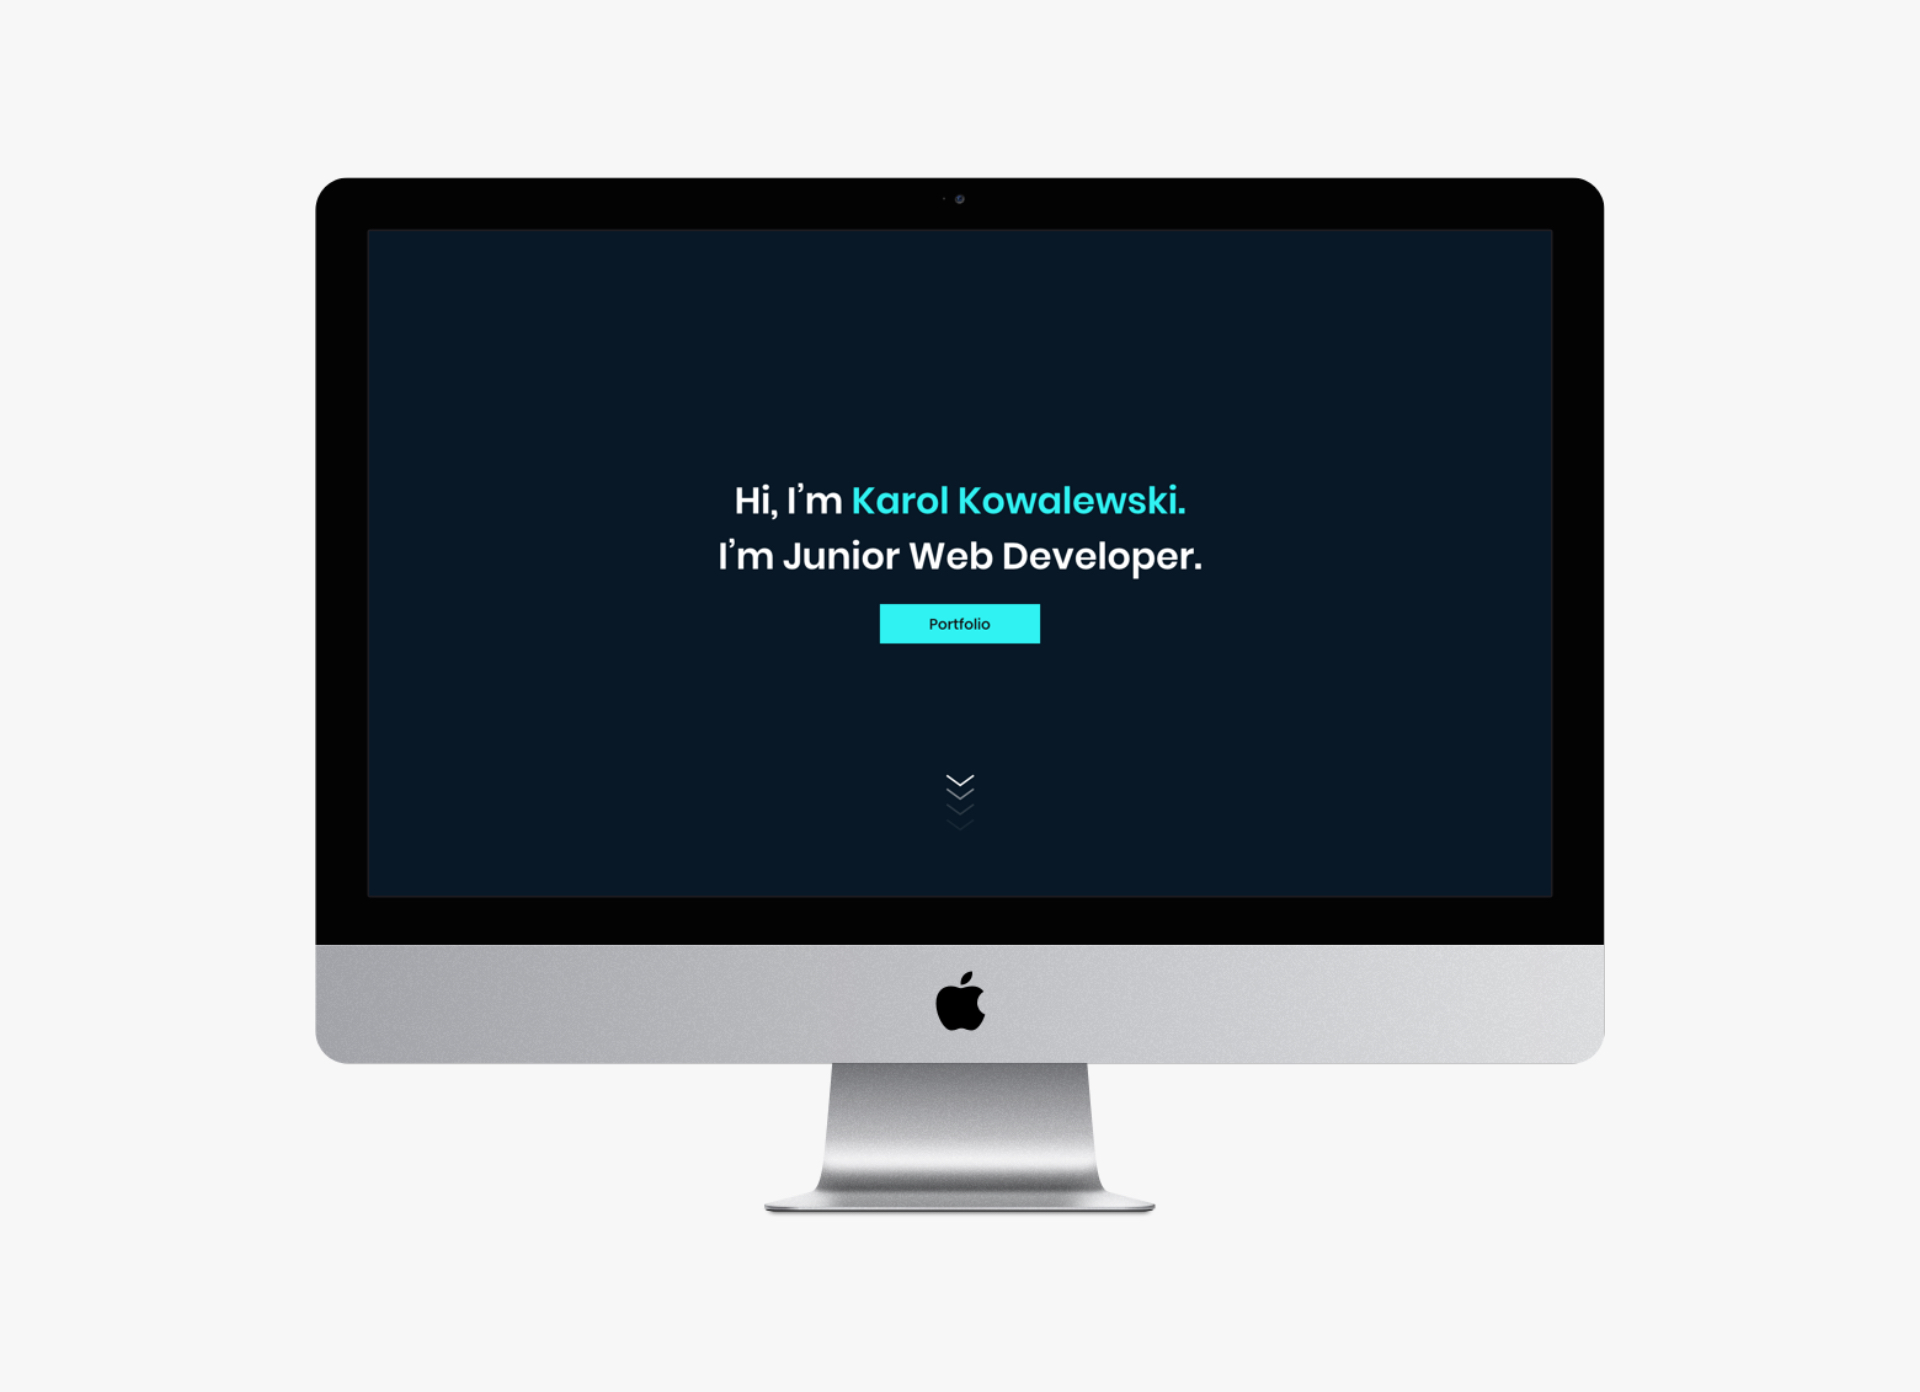
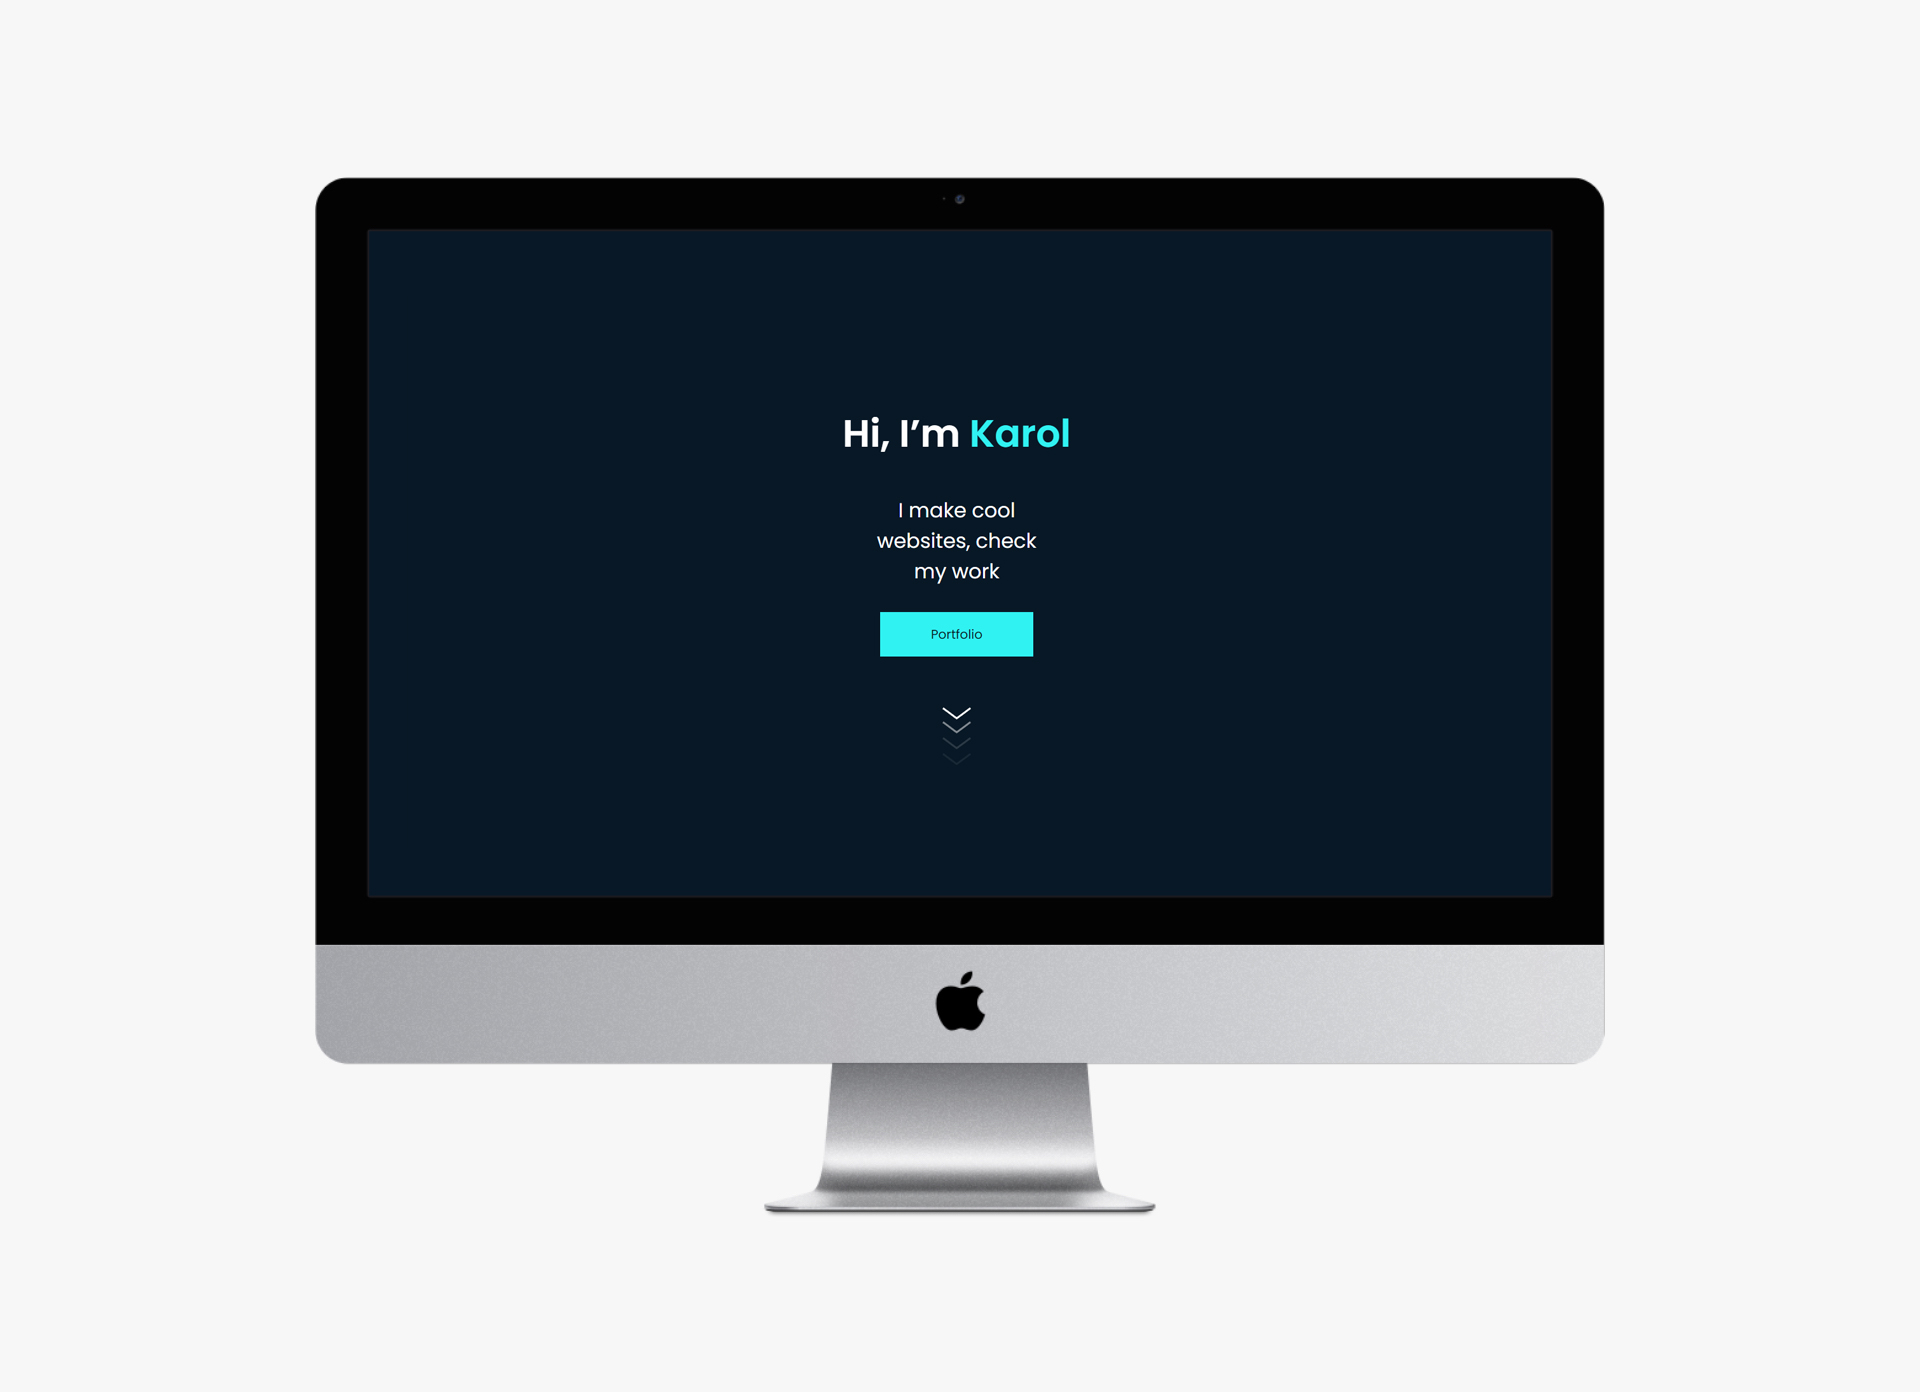
fix copy

Changed region(s): [[0.375, 0.278, 0.625, 0.4943]]

diff --git a/index.html b/index.html
@@ -20,9 +20,8 @@
     <main class="hero-header">
         <section class="content">         
                 <div class="welcome-text">
-                    <h1>Hi, I’m <span>Karol</span>
-                        I’m Web Developer.
-                        </h1>
+                    <h1>Hi, I’m <span>Karol</span></h1>
+                    <h3>I make cool websites, check my work</h3>
                 </div>
                 <div class="btn">
                     <a href="#portfolio" class="link">Portfolio</a> 
@@ -36,9 +35,9 @@
         <div class="description-text first-row">
             <h2 class="title me">About me</h2>
             <p class="description">Hi, My name is Karol. I'm a web designer who has become a web developer 
-                and want to develop in this direction. I gained my experience at Codecademy. 
+                and want to develop in this direction. I gained my experience in the internet. 
                 I like new challenges and new technologies. I have been designing 
-                web interfaces for 3 years, which is why I became interested in programming because 
+                web interfaces for 5 years, which is why I became interested in programming because 
                 I am very motivated and excited about this fact. My goal is to get as much knowledge 
                 as possible about writing clean useful code.                
             </p>

diff --git a/css/style.css b/css/style.css
@@ -29,11 +29,18 @@ body {
   -webkit-box-pack: center;
       -ms-flex-pack: center;
           justify-content: center;
+  -webkit-box-orient: vertical;
+  -webkit-box-direction: normal;
+      -ms-flex-direction: column;
+          flex-direction: column;
+  -webkit-box-align: center;
+      -ms-flex-align: center;
+          align-items: center;
 }
 
 .hero-header h1 {
   width: 800px;
-  height: 183px;
+  height: 60px;
   font-size: 60px;
   font-weight: 600;
   line-height: 1.5;
@@ -62,6 +69,17 @@ body {
     width: 260px;
     font-size: 34px;
   }
+}
+
+.hero-header h3 {
+  width: 300px;
+  height: 120px;
+  font-size: 32px;
+  font-weight: 400;
+  line-height: 1.5;
+  letter-spacing: normal;
+  text-align: center;
+  color: #ffffff;
 }
 
 .hero-header .btn {

diff --git a/css/_variables.scss b/css/_variables.scss
@@ -24,7 +24,7 @@
 
     @mixin h1 {
         width: 800px;
-        height: 183px;
+        height: 60px;
         font-size: 60px;
         font-weight: 600;
         line-height: 1.5;
@@ -39,6 +39,17 @@
         line-height: 1.5;
         text-align: left;
         color: $main-color;
+    }
+
+    @mixin h3 {
+        width: 300px;
+        height: 120px;
+        font-size: 32px;
+        font-weight: 400;
+        line-height: 1.5;
+        letter-spacing: normal;
+        text-align: center;
+        color: $white-color;
     }
 
     @mixin hoverOff {

diff --git a/css/_header.scss b/css/_header.scss
@@ -15,7 +15,9 @@ body {
     }
 
     .welcome-text {
-        @include flexCenter();          
+        @include flexCenter();
+        flex-direction: column;
+        align-items: center;          
     }
 
     h1 {
@@ -36,6 +38,10 @@ body {
             width: 260px;
             font-size: 34px;
         }
+    }
+
+    h3 {
+        @include h3();
     }
 
     .btn {
